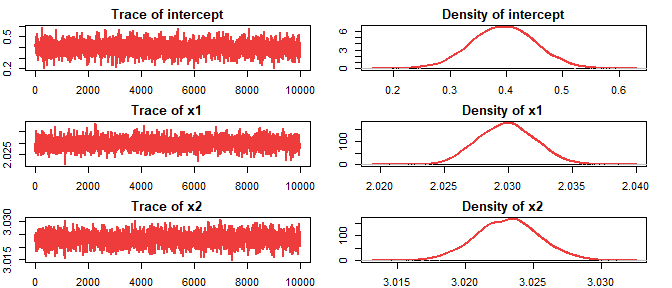
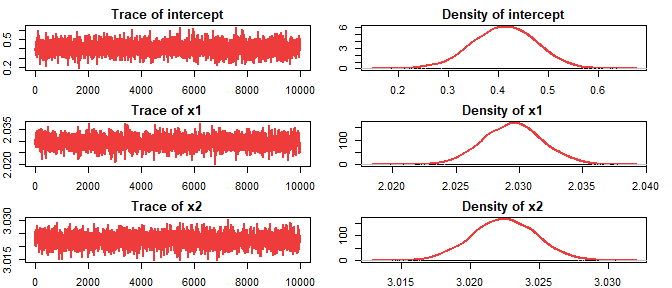
update progress

diff --git a/README.md b/README.md
@@ -4,8 +4,9 @@
 <!-- badges: start -->
 
 [![CRAN
-status](https://www.r-pkg.org/badges/version/saeHB.unit)](https://CRAN.R-project.org/package=saeHB.unit)
+status](https://www.r-pkg.org/badges/version-last-release/saeHB.unit)](https://CRAN.R-project.org/package=saeHB.unit)
 [![check-standard](https://github.com/Alfrzlp/saeHB.unit/actions/workflows/check-standard.yaml/badge.svg)](https://github.com/Alfrzlp/saeHB.unit/actions/workflows/check-standard.yaml)
+![downloads](https://cranlogs.r-pkg.org/badges/grand-total/saeHB.unit)
 
 <!-- badges: end -->
 
@@ -19,12 +20,12 @@ Ridson Al Farizal P \<alfrzlp@gmail.com\>
 
 # Description
 
-We designed this package to provide function for unit level of small
-area estimation (Battese, Harter and Fuller model) using hierarchical
-Bayesian (HB) method. It also provides datasets generated by data
-generation (`dummy_unit` and `dummy_area`) and real dataset
+We designed this package to provide a function for small area estimation
+unit-level model (Battese, Harter, and Fuller model) using the
+hierarchical bayesian (HB) method. It also provides datasets generated
+by data generation (`dummy_unit` and `dummy_area`) and real datasets
 (`cornsoybean` and `cornsoybeanmean`). The `rjags` package is employed
-to obtain parameter estimates
+to obtain parameter estimates.
 
 # Installation
 
@@ -110,69 +111,68 @@ corn_eblup <- pbmseBHF(
 )
 #> 
 #> Bootstrap procedure with B = 50 iterations starts.
-#> boundary (singular) fit: see help('isSingular')
 #> b = 1 
-#> b = 2
-#> boundary (singular) fit: see help('isSingular')
+#> b = 2 
 #> b = 3 
-#> b = 4
-#> boundary (singular) fit: see help('isSingular')
+#> b = 4 
 #> b = 5 
 #> b = 6 
 #> b = 7 
 #> b = 8 
 #> b = 9 
-#> b = 10
+#> b = 10 
+#> b = 11
 #> boundary (singular) fit: see help('isSingular')
-#> b = 11 
-#> b = 12 
-#> b = 13
+#> b = 12
 #> boundary (singular) fit: see help('isSingular')
+#> b = 13 
 #> b = 14 
 #> b = 15 
-#> b = 16
-#> boundary (singular) fit: see help('isSingular')
+#> b = 16 
 #> b = 17
 #> boundary (singular) fit: see help('isSingular')
 #> b = 18 
-#> b = 19
+#> b = 19 
+#> b = 20
 #> boundary (singular) fit: see help('isSingular')
-#> b = 20 
 #> b = 21 
-#> b = 22 
+#> b = 22
+#> boundary (singular) fit: see help('isSingular')
 #> b = 23 
-#> b = 24 
+#> b = 24
+#> boundary (singular) fit: see help('isSingular')
 #> b = 25 
 #> b = 26
 #> boundary (singular) fit: see help('isSingular')
 #> b = 27 
 #> b = 28 
 #> b = 29 
-#> b = 30 
+#> b = 30
+#> boundary (singular) fit: see help('isSingular')
 #> b = 31 
-#> b = 32
-#> boundary (singular) fit: see help('isSingular')
-#> b = 33
-#> boundary (singular) fit: see help('isSingular')
+#> b = 32 
+#> b = 33 
 #> b = 34 
 #> b = 35 
 #> b = 36 
-#> b = 37 
+#> b = 37
+#> boundary (singular) fit: see help('isSingular')
 #> b = 38 
 #> b = 39 
-#> b = 40
-#> boundary (singular) fit: see help('isSingular')
+#> b = 40 
 #> b = 41 
-#> b = 42 
+#> b = 42
+#> boundary (singular) fit: see help('isSingular')
 #> b = 43 
 #> b = 44 
-#> b = 45 
-#> b = 46 
-#> b = 47 
-#> b = 48
+#> b = 45
 #> boundary (singular) fit: see help('isSingular')
-#> b = 49
+#> b = 46
 #> boundary (singular) fit: see help('isSingular')
+#> b = 47
+#> boundary (singular) fit: see help('isSingular')
+#> b = 48 
+#> b = 49 
 #> b = 50
 
 rse_eblup <- sqrt(corn_eblup$mse$mse) * 100 / corn_eblup$est$eblup$eblup
@@ -286,12 +286,12 @@ hb_model <- hb_unit(
   iter.update = 30,
   plot = FALSE
 )
-#> Update 2/30 | ■■■                                7% | ETA:  2m Update 3/30 | ■■■■                              10% | ETA:  2m Update 4/30 | ■■■■■                             13% | ETA:  2m Update 5/30 | ■■■■■■                            17% | ETA:  3m Update 6/30 | ■■■■■■■                           20% | ETA:  3m Update 7/30 | ■■■■■■■■                          23% | ETA:  3m Update 8/30 | ■■■■■■■■■                         27% | ETA:  3m Update 9/30 | ■■■■■■■■■■                        30% | ETA:  3m Update 10/30 | ■■■■■■■■■■■                       33% | ETA:  3m Update 11/30 | ■■■■■■■■■■■■                      37% | ETA:  3m Update 12/30 | ■■■■■■■■■■■■■                     40% | ETA:  3m Update 13/30 | ■■■■■■■■■■■■■■                    43% | ETA:  3m Update 14/30 | ■■■■■■■■■■■■■■■                   47% | ETA:  3m Update 15/30 | ■■■■■■■■■■■■■■■■                  50% | ETA:  3m Update 16/30 | ■■■■■■■■■■■■■■■■■                 53% | ETA:  3m Update 17/30 | ■■■■■■■■■■■■■■■■■■                57% | ETA:  2m Update 18/30 | ■■■■■■■■■■■■■■■■■■■               60% | ETA:  2m Update 19/30 | ■■■■■■■■■■■■■■■■■■■■              63% | ETA:  2m Update 20/30 | ■■■■■■■■■■■■■■■■■■■■■             67% | ETA:  2m Update 21/30 | ■■■■■■■■■■■■■■■■■■■■■■            70% | ETA:  2m Update 22/30 | ■■■■■■■■■■■■■■■■■■■■■■■           73% | ETA:  2m Update 23/30 | ■■■■■■■■■■■■■■■■■■■■■■■■          77% | ETA:  1m Update 24/30 | ■■■■■■■■■■■■■■■■■■■■■■■■■         80% | ETA:  1m Update 25/30 | ■■■■■■■■■■■■■■■■■■■■■■■■■■        83% | ETA:  1m Update 26/30 | ■■■■■■■■■■■■■■■■■■■■■■■■■■■       87% | ETA: 46s Update 27/30 | ■■■■■■■■■■■■■■■■■■■■■■■■■■■■      90% | ETA: 34s Update 28/30 | ■■■■■■■■■■■■■■■■■■■■■■■■■■■■■     93% | ETA: 23s Update 29/30 | ■■■■■■■■■■■■■■■■■■■■■■■■■■■■■■    97% | ETA: 11s                                                                  
+#> Update 2/30 | ■■■                                7% | ETA:  1m Update 3/30 | ■■■■                              10% | ETA:  1m Update 4/30 | ■■■■■                             13% | ETA:  1m Update 5/30 | ■■■■■■                            17% | ETA:  1m Update 6/30 | ■■■■■■■                           20% | ETA:  1m Update 7/30 | ■■■■■■■■                          23% | ETA:  1m Update 8/30 | ■■■■■■■■■                         27% | ETA:  1m Update 9/30 | ■■■■■■■■■■                        30% | ETA:  1m Update 10/30 | ■■■■■■■■■■■                       33% | ETA:  1m Update 11/30 | ■■■■■■■■■■■■                      37% | ETA:  1m Update 12/30 | ■■■■■■■■■■■■■                     40% | ETA:  1m Update 13/30 | ■■■■■■■■■■■■■■                    43% | ETA:  1m Update 14/30 | ■■■■■■■■■■■■■■■                   47% | ETA:  1m Update 15/30 | ■■■■■■■■■■■■■■■■                  50% | ETA:  1m Update 16/30 | ■■■■■■■■■■■■■■■■■                 53% | ETA:  1m Update 17/30 | ■■■■■■■■■■■■■■■■■■                57% | ETA:  1m Update 18/30 | ■■■■■■■■■■■■■■■■■■■               60% | ETA: 50s Update 19/30 | ■■■■■■■■■■■■■■■■■■■■              63% | ETA: 46s Update 20/30 | ■■■■■■■■■■■■■■■■■■■■■             67% | ETA: 42s Update 21/30 | ■■■■■■■■■■■■■■■■■■■■■■            70% | ETA: 38s Update 22/30 | ■■■■■■■■■■■■■■■■■■■■■■■           73% | ETA: 33s Update 23/30 | ■■■■■■■■■■■■■■■■■■■■■■■■          77% | ETA: 29s Update 24/30 | ■■■■■■■■■■■■■■■■■■■■■■■■■         80% | ETA: 25s Update 25/30 | ■■■■■■■■■■■■■■■■■■■■■■■■■■        83% | ETA: 21s Update 26/30 | ■■■■■■■■■■■■■■■■■■■■■■■■■■■       87% | ETA: 17s Update 27/30 | ■■■■■■■■■■■■■■■■■■■■■■■■■■■■      90% | ETA: 13s Update 28/30 | ■■■■■■■■■■■■■■■■■■■■■■■■■■■■■     93% | ETA:  8s Update 29/30 | ■■■■■■■■■■■■■■■■■■■■■■■■■■■■■■    97% | ETA:  4s                                                                  
 #> ── Coefficient ─────────────────────────────────────────────────────────────────
 #>                Mean        SD      2.5%       25%       50%       75%  97.5%
-#> intercept 0.3948102 0.0573688 0.2829102 0.3558277 0.3952609 0.4337828 0.5068
-#> x1        2.0298812 0.0022426 2.0256112 2.0282862 2.0298828 2.0314088 2.0343
-#> x2        3.0231039 0.0023648 3.0184731 3.0215362 3.0231553 3.0246763 3.0278
+#> intercept 0.4114817 0.0638659 0.2818299 0.3680691 0.4121577 0.4554919 0.5362
+#> x1        2.0294881 0.0023865 2.0248639 2.0278430 2.0294901 2.0310455 2.0342
+#> x2        3.0224227 0.0023457 3.0178024 3.0208473 3.0224303 3.0240568 3.0270
 ```
 
 This dataset contains NA in 5 domains out of 30 domains.
@@ -301,11 +301,11 @@ dummy_unit %>%
   dplyr::filter(is.na(y_di)) %>% 
   sample_n(size = 5)
 #>   domain y_di       x1       x2
-#> 1    d22   NA 19.00794 11.30174
-#> 2    d27   NA 19.09201 12.22442
-#> 3    d27   NA 13.87459 13.50042
-#> 4    d22   NA 12.26944 10.24241
-#> 5    d27   NA 13.49637 11.45061
+#> 1    d14   NA 13.95985 17.36882
+#> 2    d16   NA 18.33160 11.46246
+#> 3    d27   NA 17.60698 15.91963
+#> 4    d22   NA 19.00794 11.30174
+#> 5    d22   NA 14.79173 13.13999
 ```
 
 ``` r
@@ -333,9 +333,9 @@ saeHB.unit::autoplot(hb_model)
 ``` r
 summary(hb_model)
 #>                Mean        SD      2.5%       25%       50%       75%  97.5%
-#> intercept 0.3948102 0.0573688 0.2829102 0.3558277 0.3952609 0.4337828 0.5068
-#> x1        2.0298812 0.0022426 2.0256112 2.0282862 2.0298828 2.0314088 2.0343
-#> x2        3.0231039 0.0023648 3.0184731 3.0215362 3.0231553 3.0246763 3.0278
+#> intercept 0.4114817 0.0638659 0.2818299 0.3680691 0.4121577 0.4554919 0.5362
+#> x1        2.0294881 0.0023865 2.0248639 2.0278430 2.0294901 2.0310455 2.0342
+#> x2        3.0224227 0.0023457 3.0178024 3.0208473 3.0224303 3.0240568 3.0270
 ```
 
 ``` r
